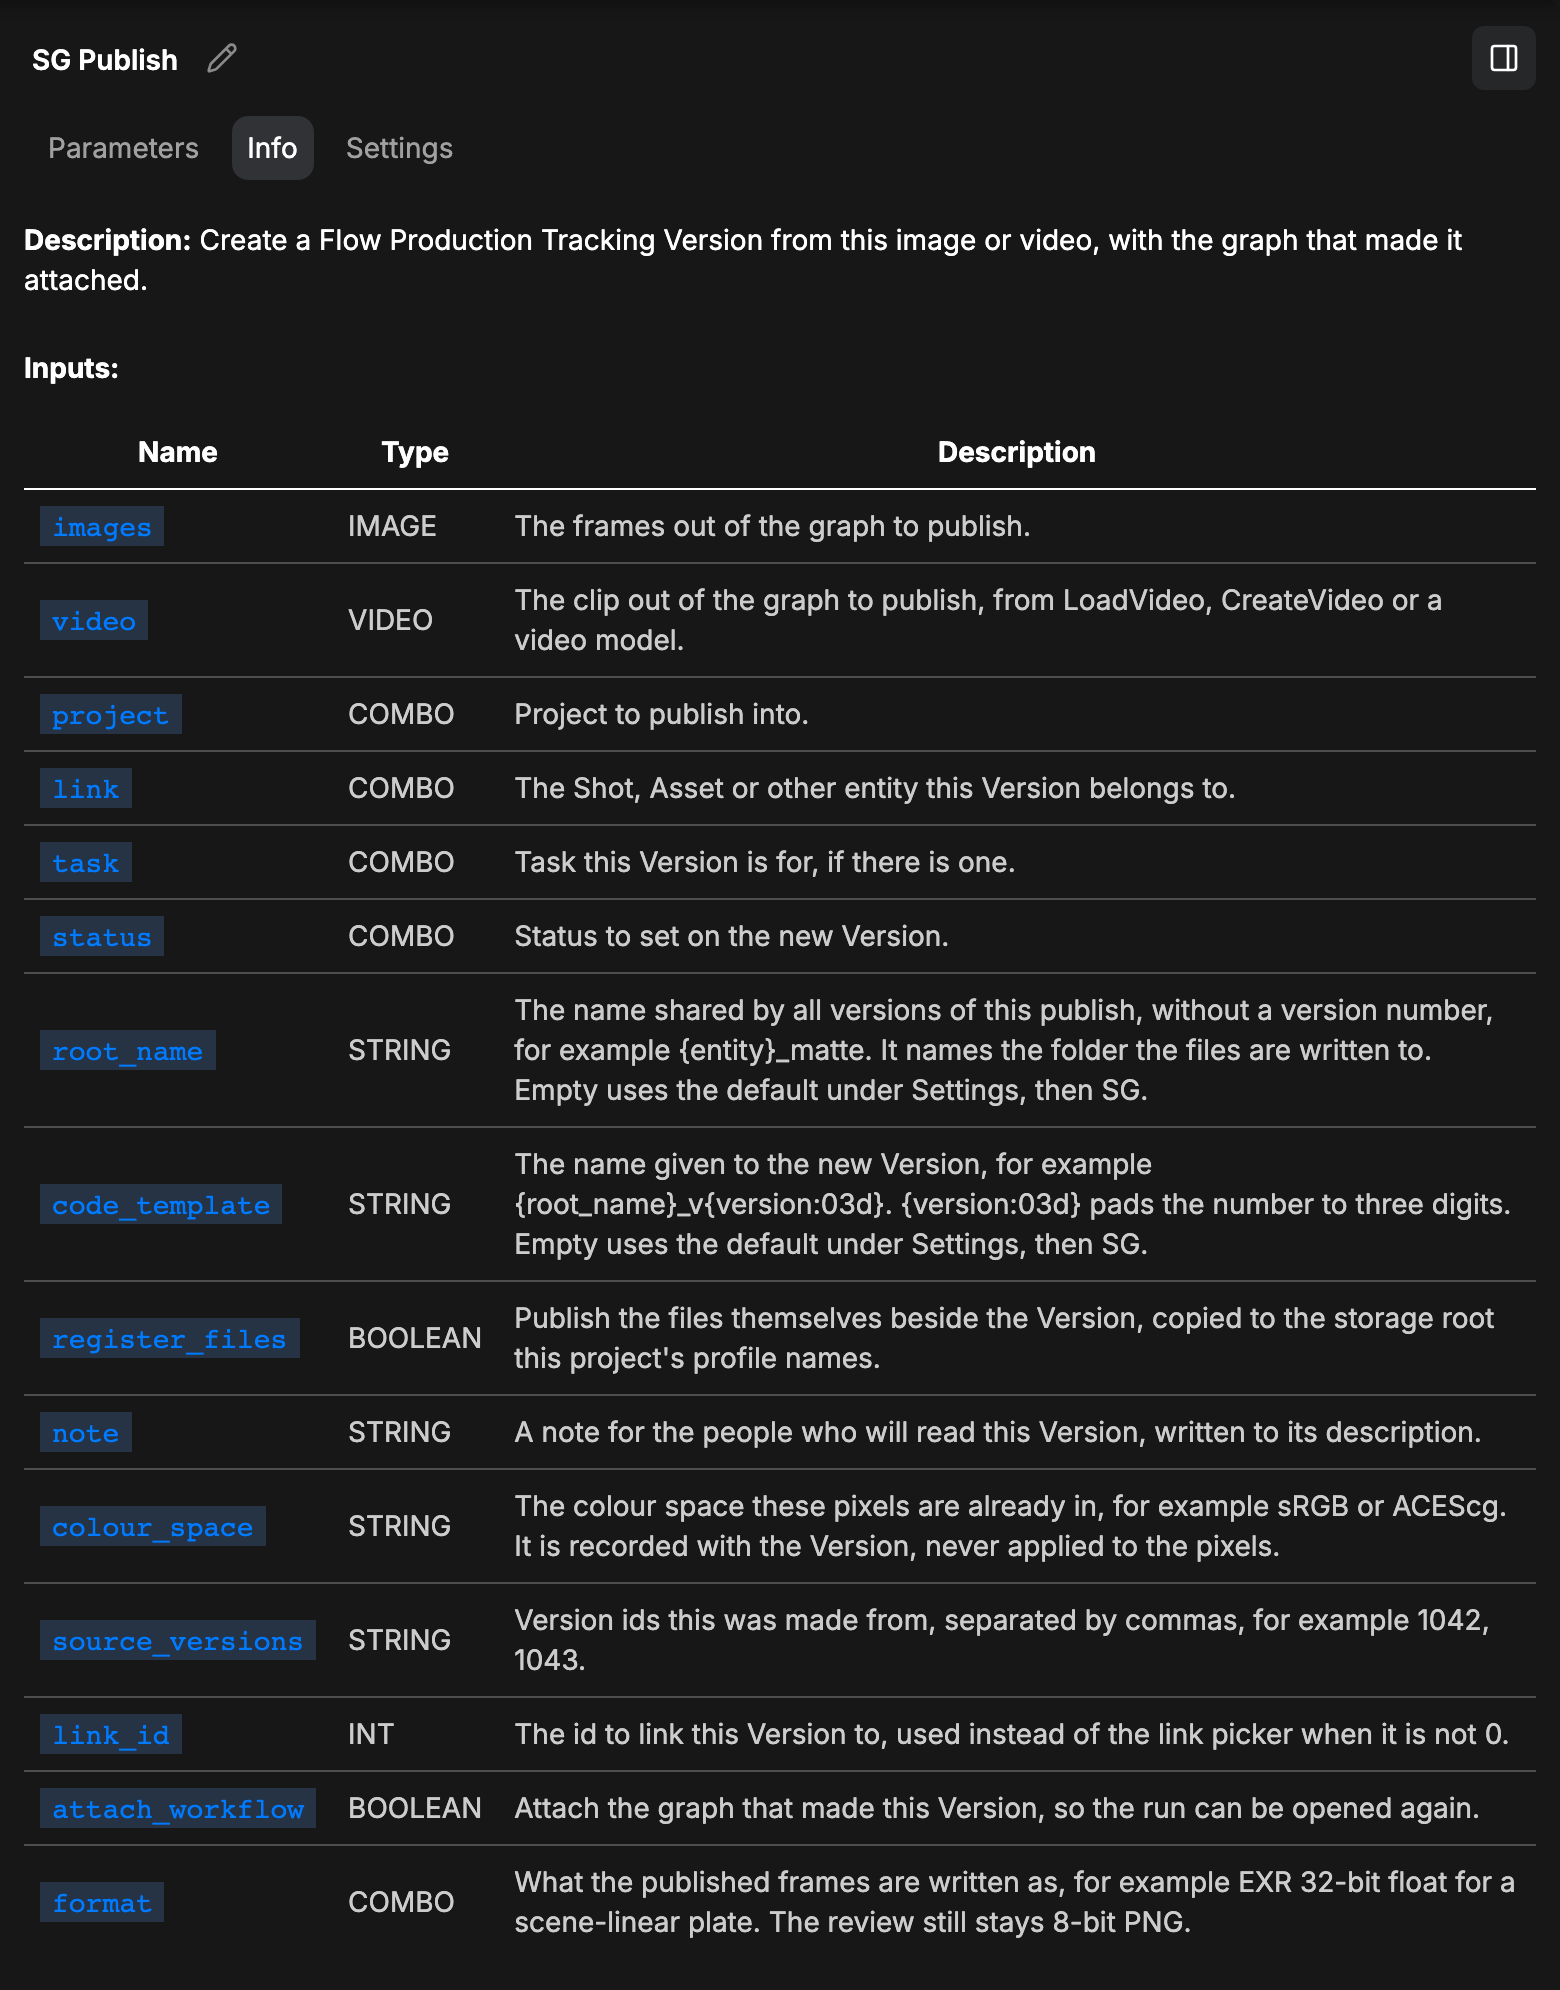
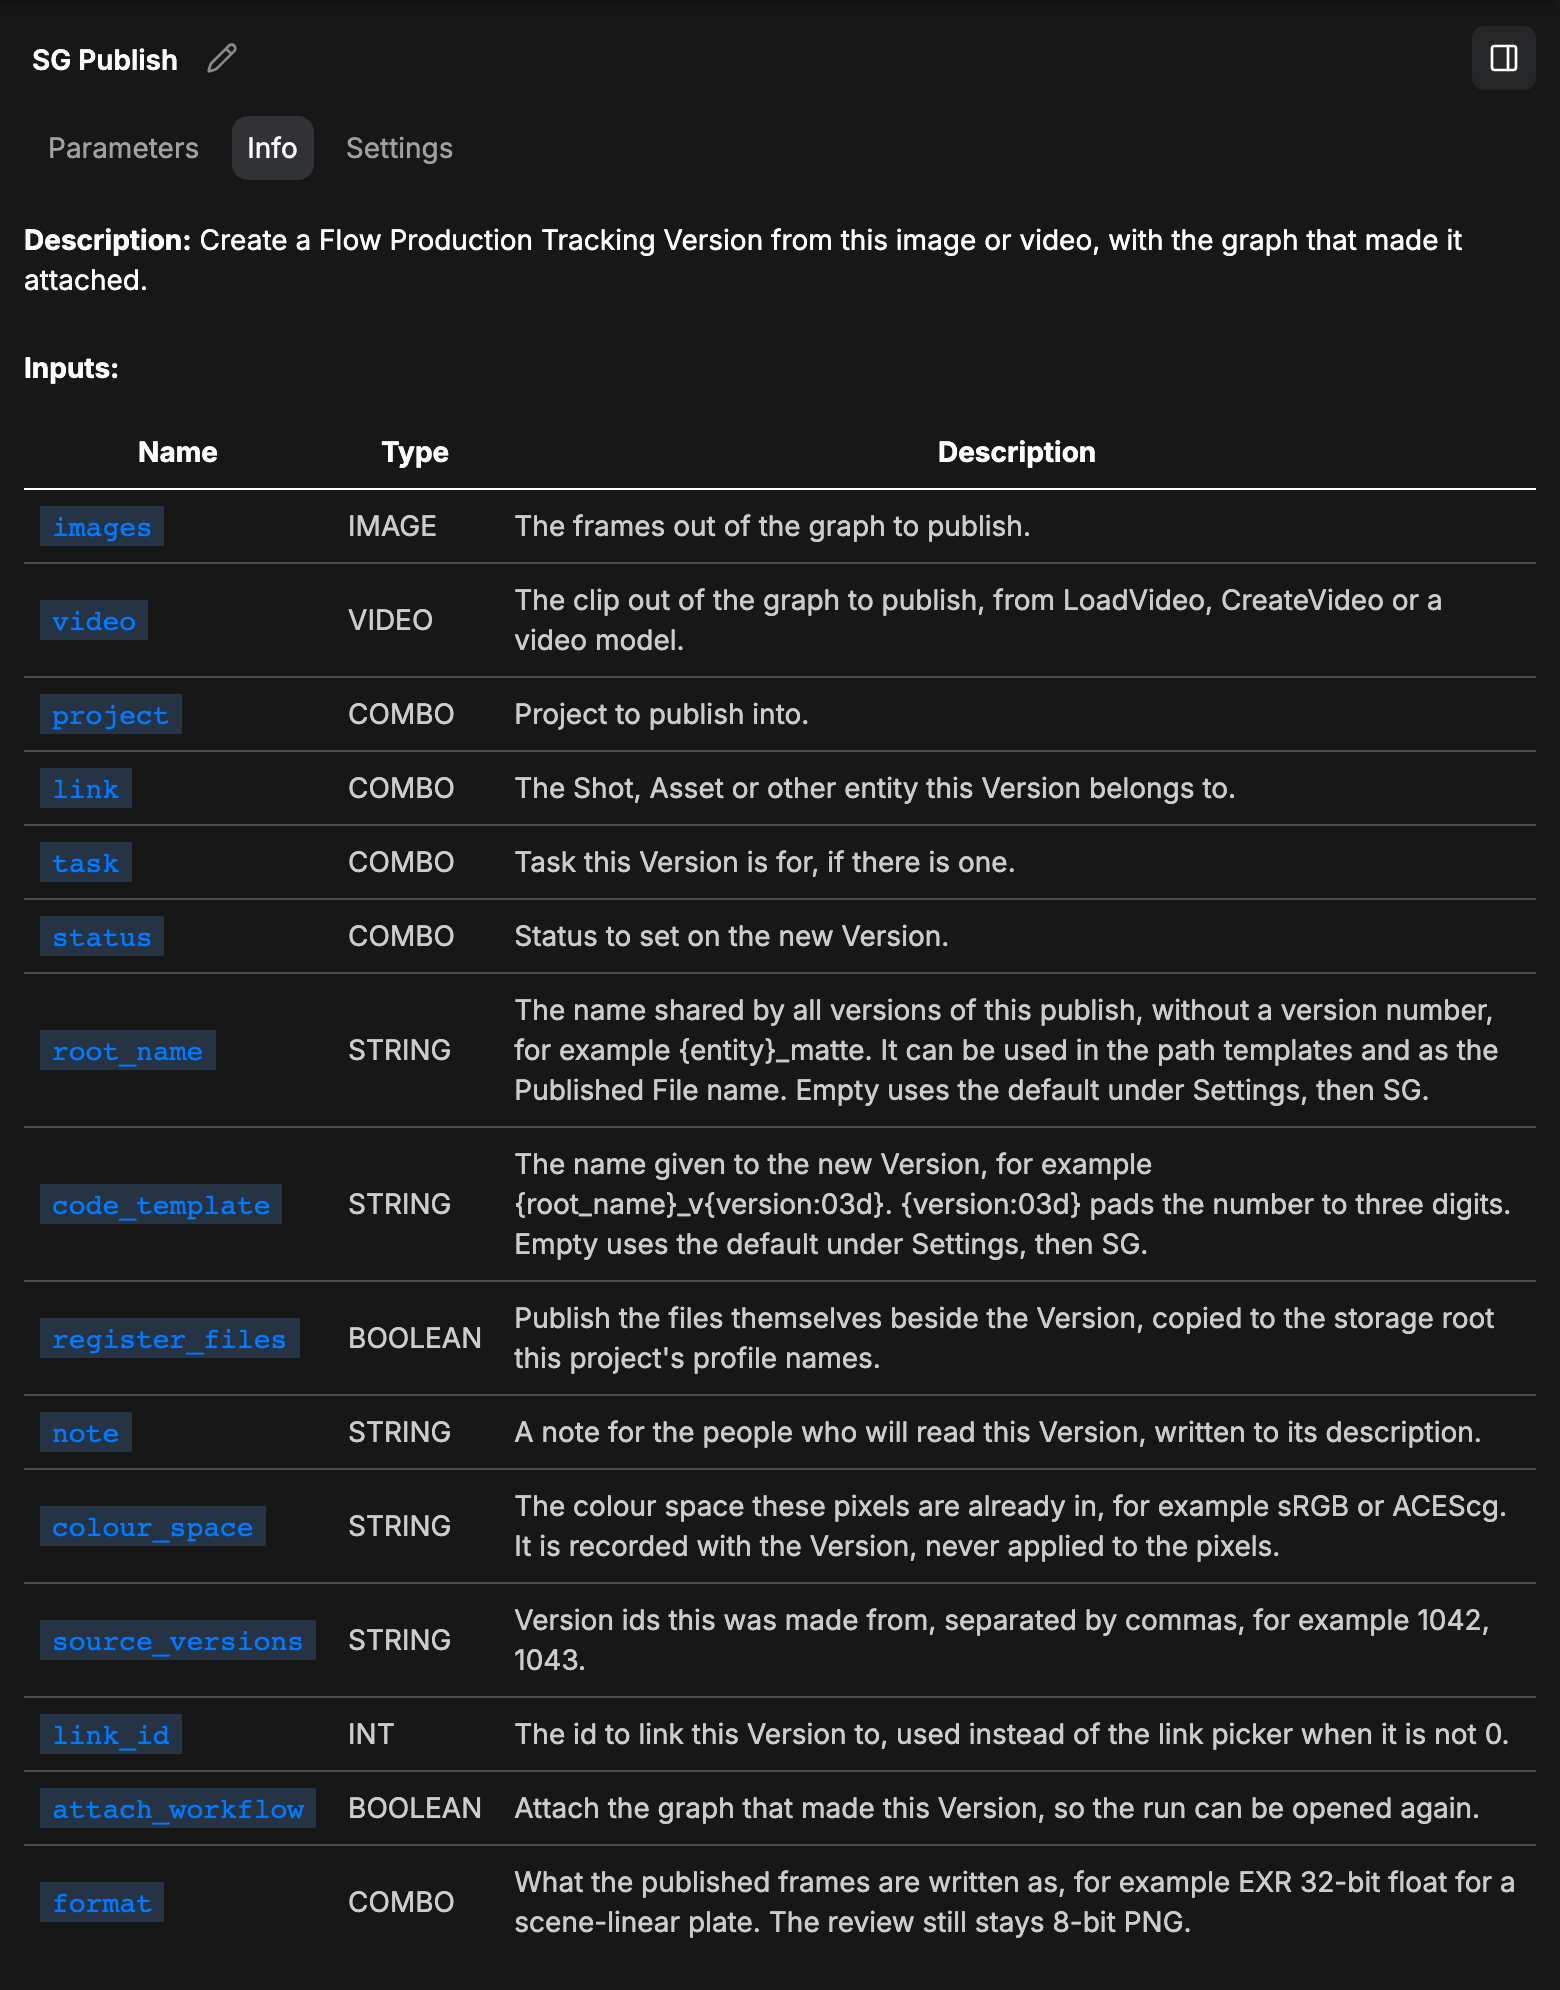
Root name tooltip: usable in the path templates and as the Published File name
Claude-Session: https://claude.ai/code/session_01QMFLjaF5RRaXy2KV53GW1J

Changed region(s): [[0.3385, 0.4985, 0.9231, 0.5608]]

diff --git a/src/comfyui_sg/widgets.py b/src/comfyui_sg/widgets.py
@@ -48,8 +48,8 @@ PUBLISH_FIELDS = (
     # explores variations, and the version name builds on it.
     Field("root_name", "text", label="root name",
           tooltip="The name shared by all versions of this publish, without a version number, for "
-                  "example {entity}_matte. It names the folder the files are written to. Empty "
-                  "uses the default under Settings, then SG."),
+                  "example {entity}_matte. It can be used in the path templates and as the "
+                  "Published File name. Empty uses the default under Settings, then SG."),
     Field("code_template", "text", label="version name",
           tooltip="The name given to the new Version, for example {root_name}_v{version:03d}. "
                   "{version:03d} pads the number to three digits. Empty uses the default under "
